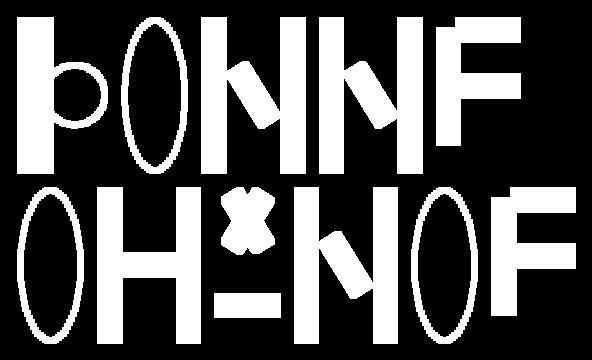
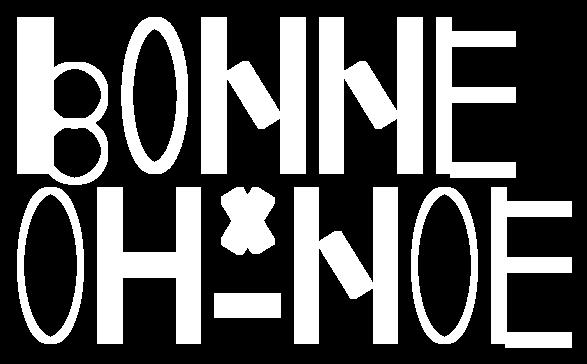
H O et E fonctionne

diff --git a/src/main/java/Letter/LetterFactory.java b/src/main/java/Letter/LetterFactory.java
@@ -17,26 +17,19 @@ public final class LetterFactory {
      * @return BaseShape containing the letter A
      */
     public static BaseShape create_A()  {
-        BaseShape letterA = new BaseShape();
 
-        // Create the top horizontal bar of the letter A (Rectangle)
         Rectangle topBar = new Rectangle(maxWidth, stripeThickness);
         topBar.translate(topBar.getCoords(),new Point2d(0.0, halfMaxHeight + halfStripeThickness));
-        letterA.add(topBar);
 
-        // Create the left diagonal bar of the letter A (Ellipse)
         Rectangle leftDiagonalBar = new Rectangle(maxWidth, stripeThickness);
-        leftDiagonalBar.rotate(leftDiagonalBar.getCoords(),-45.0); // Rotate the rectangle by 45 degrees
-//        diagonalBar.translate(diagonalBar.getCoords(),new Point2d(stripeThickness / 2.0, -maxHeight + stripeThickness / 2.0));
-        letterA.add(leftDiagonalBar);
+        leftDiagonalBar.rotate(leftDiagonalBar.getCoords(),-45.0);
+        topBar.add(leftDiagonalBar);
 
-        // Create the right diagonal bar of the letter A (Ellipse)
         Rectangle rightDiagonalBar = new Rectangle(maxWidth, stripeThickness);
-        rightDiagonalBar.rotate(rightDiagonalBar.getCoords(),45.0); // Rotate the rectangle by 45 degrees
-//        diagonalBar.translate(diagonalBar.getCoords(),new Point2d(stripeThickness / 2.0, -maxHeight + stripeThickness / 2.0));
-        letterA.add(rightDiagonalBar);
+        rightDiagonalBar.rotate(rightDiagonalBar.getCoords(),45.0);
+        topBar.add(rightDiagonalBar);
 
-        return letterA;
+        return topBar;
     }
 
     /** TODO
@@ -45,24 +38,17 @@ public final class LetterFactory {
      */
     public static BaseShape create_B() {
 
-        BaseShape letterB = new BaseShape();
-
-        // Create the first circle for the letter B
         Circle circle1 = new Circle(maxWidth);
-        letterB.add(circle1);
 
-        // Create the second circle for the letter B
         Circle circle2 = new Circle(maxWidth);
-        letterB.add(circle2);
+        circle2.translate(circle2.getCoords(), new Point2d(0.0, -halfMaxHeight + stripeThickness));
+        circle1.add(circle2);
 
-        // Create the rectangle connecting the circles for the letter B
-        Rectangle rectangle = new Rectangle(maxWidth / 2, maxHeight);
-        rectangle.translate(rectangle.getCoords(),new Point2d(-halfMaxWidth - halfStripeThickness, 0.0));
-        letterB.add(rectangle);
-//        Rectangle leftBar = new Rectangle(stripeThickness, maxHeight);
-//        leftBar.translate(leftBar.getCoords(),new Point2d(-halfMaxWidth - halfStripeThickness, 0.0));
-//        letterH.add(leftBar);
-        return letterB;
+        Rectangle rectangle = new Rectangle(halfMaxWidth, maxHeight);
+        rectangle.translate(rectangle.getCoords(),new Point2d(-halfMaxWidth - halfStripeThickness, -halfMaxHeight+stripeThickness));
+        circle1.add(rectangle);
+
+        return circle1;
     }
 
     /** TODO
@@ -71,13 +57,8 @@ public final class LetterFactory {
      */
     public static BaseShape create_C() {
 
-        BaseShape letterC = new BaseShape();
+       return new Ellipse(maxWidth, maxHeight);
 
-        // Create an ellipse for the letter C
-        Ellipse ellipse = new Ellipse(maxWidth, maxHeight);
-        letterC.add(ellipse);
-
-        return letterC;
     }
 
     /** TODO
@@ -85,23 +66,22 @@ public final class LetterFactory {
      * @return BaseShape containing the letter E
      */
     public static BaseShape create_E() {
-        BaseShape letterE = new BaseShape();
 
-        // Create the top horizontal rectangle of the letter E
-        Rectangle topRectangle = new Rectangle(maxWidth, stripeThickness);
-        letterE.add(topRectangle);
+        Rectangle topRectangle = new Rectangle(maxWidth, halfStripeThickness);
 
-        // Create the middle vertical rectangle of the letter E
-        Rectangle middleRectangle = new Rectangle(stripeThickness, maxHeight - 2 * stripeThickness);
-        middleRectangle.translate(middleRectangle.getCoords(),new Point2d(-halfMaxWidth - halfStripeThickness, 0.0));
-        letterE.add(middleRectangle);
+        Rectangle middleRectangle = new Rectangle(maxWidth, halfStripeThickness);
+        middleRectangle.translate(middleRectangle.getCoords(),new Point2d(0.0, -halfMaxHeight + stripeThickness));
+        topRectangle.add(middleRectangle);
 
-        // Create the bottom horizontal rectangle of the letter E
-        Rectangle bottomRectangle = new Rectangle(maxWidth, stripeThickness);
-        bottomRectangle.translate(bottomRectangle.getCoords(),new Point2d(0.0, -halfMaxHeight + stripeThickness));
-        letterE.add(bottomRectangle);
+        Rectangle bottomRectangle = new Rectangle(maxWidth,halfStripeThickness);
+        bottomRectangle.translate(bottomRectangle.getCoords(), new Point2d(0.0, halfMaxHeight));
+        topRectangle.add(bottomRectangle);
 
-        return letterE;
+        Rectangle sideRectangle = new Rectangle(halfStripeThickness, maxHeight);
+        sideRectangle.translate(sideRectangle.getCoords(),new Point2d(-halfMaxWidth - halfStripeThickness, 0.0));
+        topRectangle.add(sideRectangle);
+
+        return topRectangle;
     }
 
     /** TODO
@@ -110,23 +90,17 @@ public final class LetterFactory {
      */
     public static BaseShape create_H() {
 
-        BaseShape letterH = new BaseShape();
-
-        // Create the left vertical bar of the letter H (Rectangle)
         Rectangle leftBar = new Rectangle(stripeThickness, maxHeight);
         leftBar.translate(leftBar.getCoords(),new Point2d(-halfMaxWidth - halfStripeThickness, 0.0));
-        letterH.add(leftBar);
 
-        // Create the right vertical bar of the letter H (Rectangle)
         Rectangle rightBar = new Rectangle(stripeThickness, maxHeight);
         rightBar.translate(rightBar.getCoords(),new Point2d(halfMaxWidth + halfStripeThickness, 0.0));
-        letterH.add(rightBar);
+        leftBar.add(rightBar);
 
-        // Create the horizontal bar of the letter H (Rectangle)
         Rectangle horizontalBar = new Rectangle(maxWidth, stripeThickness);
-        letterH.add(horizontalBar);
+        leftBar.add(horizontalBar);
 
-        return letterH;
+        return leftBar;
     }
 
     /** TODO
@@ -135,25 +109,19 @@ public final class LetterFactory {
      */
     public static BaseShape create_N() {
 
-        BaseShape letterN = new BaseShape();
+        Rectangle leftSide = new Rectangle(stripeThickness, maxHeight);
+        leftSide.translate(leftSide.getCoords(), new Point2d(-halfMaxWidth - halfStripeThickness, 0.0));
 
-        // Create the left vertical bar of the letter N (Rectangle)
-        Rectangle leftBar = new Rectangle(stripeThickness, maxHeight);
-        leftBar.translate(leftBar.getCoords(), new Point2d(-halfMaxWidth - halfStripeThickness, 0.0));
-        letterN.add(leftBar);
+        Rectangle rightSide = new Rectangle(stripeThickness, maxHeight);
+        rightSide.translate(rightSide.getCoords(),new Point2d(halfMaxWidth + halfStripeThickness, 0.0));
+        leftSide.add(rightSide);
 
-        // Create the right vertical bar of the letter N (Rectangle)
-        Rectangle rightBar = new Rectangle(stripeThickness, maxHeight);
-        rightBar.translate(rightBar.getCoords(),new Point2d(halfMaxWidth + halfStripeThickness, 0.0));
-        letterN.add(rightBar);
+        Rectangle diagonal = new Rectangle(maxWidth, stripeThickness);
+        diagonal.rotate(diagonal.getCoords(),45.0);
+//        diagonal.translate(diagonal.getCoords(),new Point2d(stripeThickness / 2.0, -maxHeight + stripeThickness / 2.0));
+        leftSide.add(diagonal);
 
-        // Create the diagonal bar of the letter N (Ellipse)
-        Rectangle diagonalBar = new Rectangle(maxWidth, stripeThickness);
-        diagonalBar.rotate(diagonalBar.getCoords(),45.0); // Rotate the rectangle by 45 degrees
-//        diagonalBar.translate(diagonalBar.getCoords(),new Point2d(stripeThickness / 2.0, -maxHeight + stripeThickness / 2.0));
-        letterN.add(diagonalBar);
-
-        return letterN;
+        return leftSide;
     }
 
     /** TODO
@@ -161,12 +129,9 @@ public final class LetterFactory {
      * @return BaseShape containing the letter O
      */
     public static BaseShape create_O() {
-        BaseShape letterO = new BaseShape();
 
-        // Create an ellipse for the letter O
         Ellipse ellipse = new Ellipse(maxWidth, maxHeight);
-        letterO.add(ellipse);
-
-        return letterO;
+        Ellipse insideEllipse = new Ellipse(maxWidth-halfStripeThickness,maxHeight-halfStripeThickness);
+        return ellipse.add(insideEllipse);
     }
 }

diff --git a/src/main/java/Shape/Ellipse.java b/src/main/java/Shape/Ellipse.java
@@ -11,13 +11,14 @@ public class Ellipse extends BaseShape {
      * @param heightDiameter Height of the Ellipse
      */
     public Ellipse(Double widthDiameter, Double heightDiameter) {
+        super();
         double halfWidth = widthDiameter / 2.0;
         double halfHeight = heightDiameter / 2.0;
 
-        for (double angle = 0; angle < 360; angle += 5) {
+        for (double angle = 0; angle <= 360; angle += 0.5) {
             double x = halfWidth * Math.cos(Math.toRadians(angle));
             double y = halfHeight * Math.sin(Math.toRadians(angle));
-            add(new Point2d(x, y));
+            this.add(new Point2d(x, y));
         }
     }
 
@@ -26,6 +27,7 @@ public class Ellipse extends BaseShape {
      * @param dimensions 2D point containing the width and height of the Ellipse
      */
     public Ellipse(Point2d dimensions) {
+
         this(dimensions.X(), dimensions.Y());
     }
 
